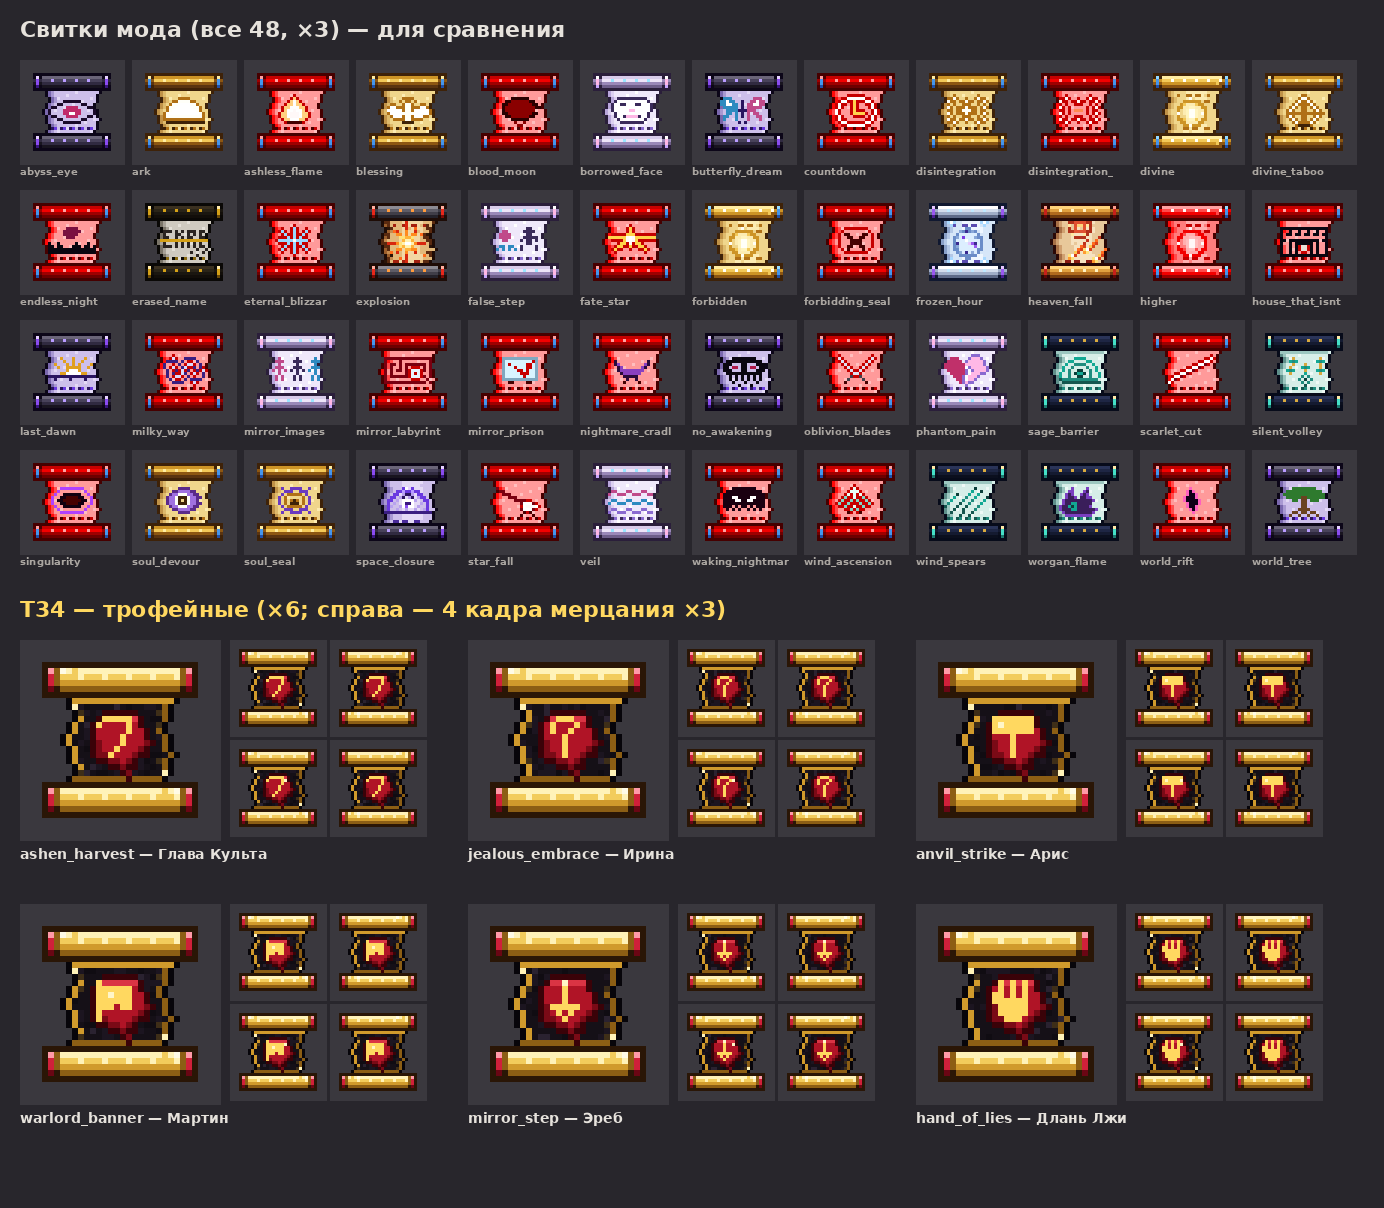
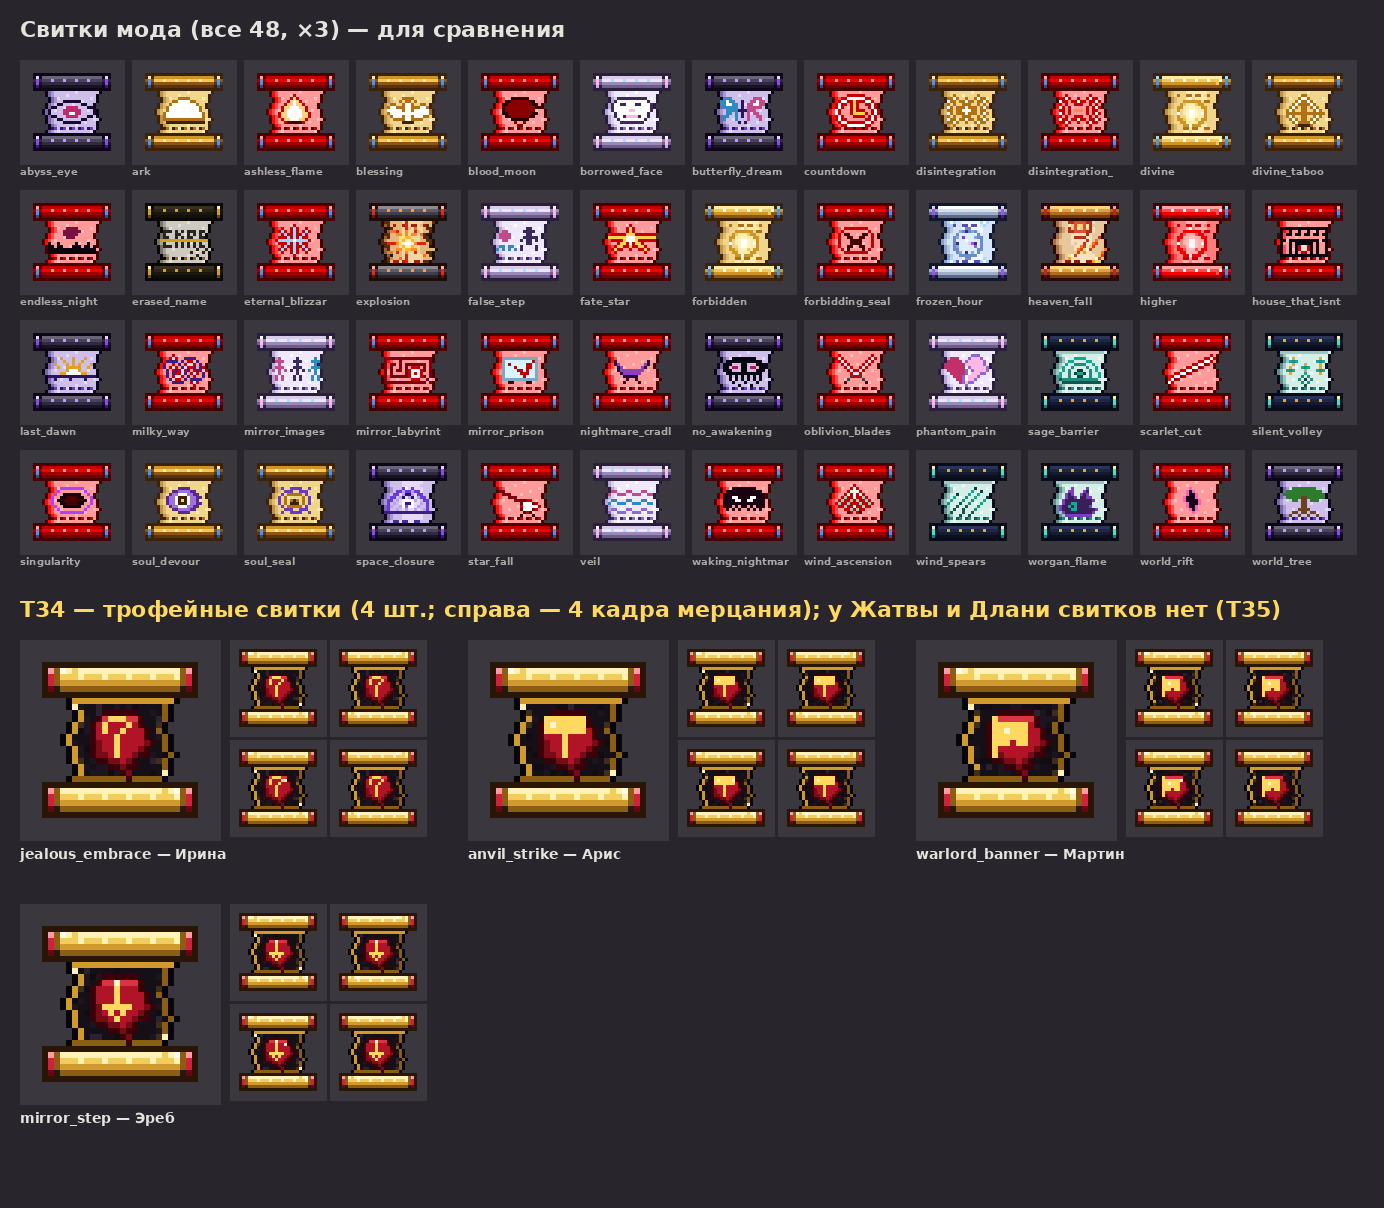
T34 visuals: trophy scrolls only for 4 spells (harvest and hand are item-only, T35)
Claude-Session: https://claude.ai/code/session_01Fjhr2fUh74Z2YWzJv9tb1u

diff --git a/tools/gen_t34_reward.py b/tools/gen_t34_reward.py
@@ -27,6 +27,8 @@ ROOT = os.path.join(HERE, '..')
 A = os.path.join(ROOT, 'src', 'main', 'resources', 'assets', 'pohsmp_core')
 MEDIA = os.path.join(ROOT, 'docs', 'media')
 IDS = ['ashen_harvest', 'jealous_embrace', 'anvil_strike', 'warlord_banner', 'mirror_step', 'hand_of_lies']
+# свитки — только для четырёх (владелец 21.11: Жатва и Длань встроены в Накидку и Маску T35, свитков у них нет)
+SCROLL_IDS = ['jealous_embrace', 'anvil_strike', 'warlord_banner', 'mirror_step']
 BOSS = {'ashen_harvest': 'Глава Культа', 'jealous_embrace': 'Ирина', 'anvil_strike': 'Арис', 'warlord_banner': 'Мартин',
         'mirror_step': 'Эреб', 'hand_of_lies': 'Длань Лжи'}
 WRITTEN = []
@@ -231,7 +233,7 @@ def _xs_left(alpha, y):
 
 
 def scrolls():
-    for sid in IDS:
+    for sid in SCROLL_IDS:
         fr = scroll_frames(sid)
         strip = np.concatenate(fr, 0)
         rel = 'textures/item/scroll_%s.png' % sid
@@ -272,10 +274,10 @@ def compare_sheet():
         im.paste(s.resize((32 * k, 32 * k), Image.NEAREST), (x + 4, y + 4), s.resize((32 * k, 32 * k), Image.NEAREST))
         d.text((x, y + 32 * k + 9), os.path.basename(f)[7:-4][:15], font=_font(10), fill=(170, 165, 160))
     y = y0 + rows_old * (cell + 18) + 16
-    d.text((20, y), 'T34 — трофейные (×6; справа — 4 кадра мерцания ×3)',
+    d.text((20, y), 'T34 — трофейные свитки (4 шт.; справа — 4 кадра мерцания); у Жатвы и Длани свитков нет (T35)',
            font=_font(22), fill=(255, 216, 96))
     y += 44
-    for i, sid in enumerate(IDS):
+    for i, sid in enumerate(SCROLL_IDS):
         fr = scroll_frames(sid)
         x = 20 + (i % 3) * ((W - 40) // 3)
         yy = y + (i // 3) * (cell * 2 + 40)

diff --git a/docs/inbox/2026-11-21_mgr_T34_visuals.md b/docs/inbox/2026-11-21_mgr_T34_visuals.md
@@ -10,15 +10,15 @@
 - кадр-лист **`docs/media/t34_spells.jpg`** (6 заклинаний × 4 фазы, игрок + fx + манекен, вид 3/4) и **`docs/media/t34_spells_top.jpg`**
   (то же сверху: жёлтая стрелка у ног = взгляд игрока; видно, что удары и fx — вперёд);
 - видео **`docs/media/video/t34_spells.mp4`**: каждое заклинание трижды — ×1 (3/4), замедленно ×⅓ (сбоку), сверху; внизу — тик и события;
-- лист сравнения свитков **`docs/media/t34_scrolls_compare.png`** (все 48 свитков мода и шесть трофейных + 4 кадра мерцания).
+- лист сравнения свитков **`docs/media/t34_scrolls_compare.png`** (все 48 свитков мода и четыре трофейных + 4 кадра мерцания).
 
 ## 1. Свитки (трофейный вид)
 `textures/item/scroll_<id>.png` (полоса 32×128 = 4 кадра) + `.png.mcmeta` (`frametime 4`, без интерполяции) и `models/item/scroll_<id>.json`
-(`item/generated`) для `ashen_harvest`, `jealous_embrace`, `anvil_strike`, `warlord_banner`, `mirror_step`, `hand_of_lies`.
+(`item/generated`) — **только для четырёх**: `jealous_embrace`, `anvil_strike`, `warlord_banner`, `mirror_step` (у Жатвы и Длани свитков нет — T35, письмо управляющего 21.11).
 Силуэт — как у всех свитков мода; **чёрный пергамент, золотые валики и золотая кайма, багровые торцы-камни** (у прочих синие),
 в центре — **багровая сургучная печать Меллисто**, в ней золотой символ босса (коса / крюк посоха / молот / знамя / рапира / ладонь).
 По кайме навстречу бегут два золотых блика (мерцание). Ни у одного свитка мода нет чёрного пергамента с золотом (см. лист сравнения).
-**Программисту:** добавить шесть id в `client/ScrollModels` (`own(...)`; путь `item/scroll_<id>` — как у прочих).
+`ScrollModels` подхватывает их сам (через `HIGHER_SPELLS`, json есть) — коду ничего не нужно.
 Строка для подсказки свитка, если нужна: `ui.pohsmp_core.reward_scroll` = «Трофей босса культа Меллисто».
 
 ## 2. Иконки и lang
@@ -27,9 +27,7 @@ lang ru/en: названия `spell.pohsmp_core.<id>` и описания `spell
 `ui.pohsmp_core.<id>.*` уже добавил программист под свой код — при слиянии взял его ключи, свои дубли убрал. Строки смерти отдельные
 не делал: урон Высшей школы подписан `death.attack.higher_magic*`.
 
-**После изменения владельца (Жатва и Длань — только из вещей T35):** картинки свитков `scroll_ashen_harvest` / `scroll_hand_of_lies`
-сделаны и лежат, но `ScrollModels` их не регистрирует — это нормально, пусть лежат на случай возврата; остальные четыре подхватываются сами
-(через `HIGHER_SPELLS`, json есть).
+**После изменения владельца:** свитков у Жатвы и Длани нет (картинки не делаю, удалил); иконки, lang, анимации и fx — для всех шести.
 
 ## 3. Анимации игрока (PlayerAnimator, `assets/irons_spellbooks/player_animation/pohsmp_<id>.json`)
 Одна анимация на заклинание, без петли, имя **`pohsmp_<id>`** (как в задании): в коде сейчас ждутся `pohsmp_<id>_cast` / `_finish` —
